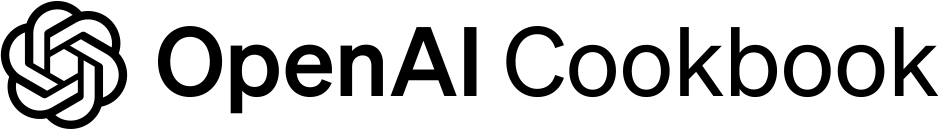
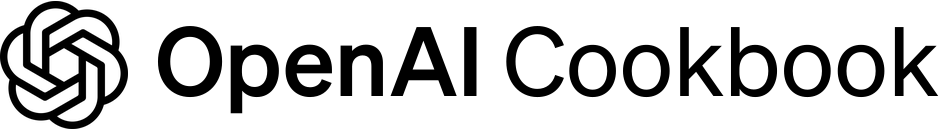
311uuob7 Бороо орж байна

Changed region(s): [[0.0, 0.0, 0.1544, 1.0]]

diff --git a/README.md b/README.md
@@ -1,9 +1,5 @@
-<a href="https://cookbook.openai.com" target="_blank">
-  <picture>
-    <source media="(prefers-color-scheme: dark)" srcset="/images/openai-cookbook-white.png" style="max-width: 100%; width: 400px; margin-bottom: 20px">
-    <img alt="OpenAI Cookbook Logo" src="/images/openai-cookbook.png" width="400px">
-  </picture>
-</a>
+<a href="https://cookbook.openai.com/#gh-dark-mode-only"><img alt="OpenAI Cookbook Logo" src="/images/openai-cookbook-white.png" width="400"></a>
+<a href="https://cookbook.openai.com/#gh-light-mode-only"><img alt="OpenAI Cookbook Logo" src="/images/openai-cookbook.png" width="400"></a>
 
 <h3></h3>
  
